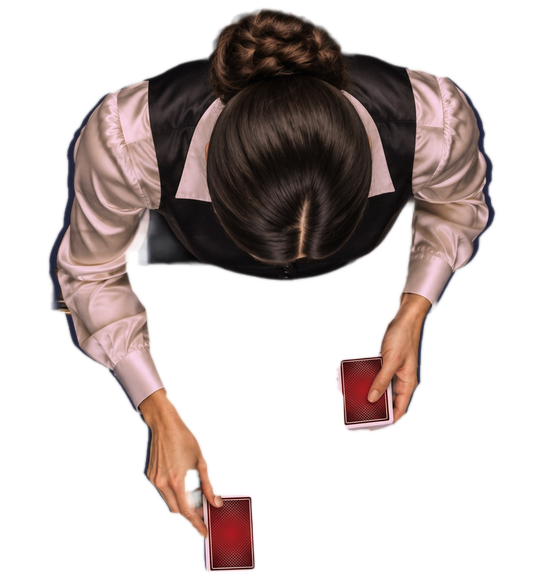
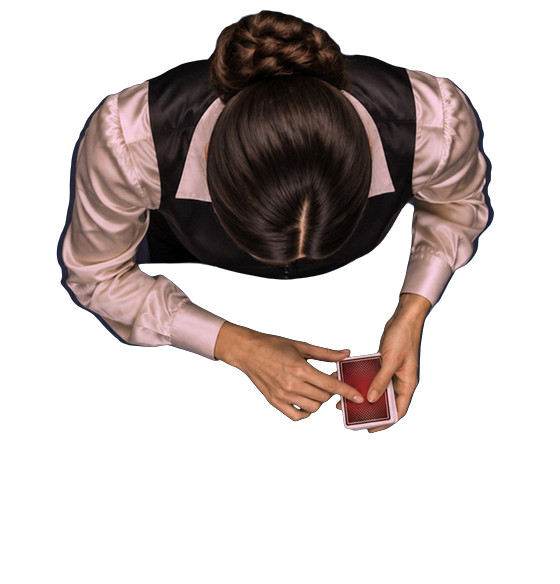
Kurpiye 1: dağıtırken eliyle kart dağıtma hareketi, masada kart yok
Videodan çıkarılan 41 karelik şerit dağıtım sırasında oynar (Erman 25 Kas, önce 1. kurpiyede deneme).

diff --git a/sw.js b/sw.js
@@ -1,10 +1,10 @@
 // Offline önbellek: ilk açılışta tüm dosyalar cihaza kaydedilir.
 // Dosya değişince SURUM artırılır.
-const SURUM = 'novo-online-v35';
+const SURUM = 'novo-online-v36';
 const DOSYALAR = [
   './', 'index.html', 'css/stil.css', 'manifest.webmanifest',
   'js/uygulama.js', 'js/arayuz.js', 'js/masa.js', 'js/oyuncu.js', 'js/motor.js', 'js/kart.js', 'js/ses.js', 'js/fis.js', 'js/novo.js', 'js/novo_masa.js', 'js/krupiye.js', 'js/havai.js', 'js/konus.js', 'js/online.js', 'js/ultimate.js', 'js/ultimate_masa.js',
-  'sesler/fis/tek.mp3', 'sesler/fis/kucuk.mp3', 'sesler/fis/yigin.mp3', 'sesler/fis/itme.mp3', 'sesler/ortam.mp3', 'img/masa/lacivert.jpg', 'img/masa/yesil.jpg', 'img/masa/antrasit.jpg', 'img/kurpiye/1.jpg', 'img/kurpiye/2.jpg', 'img/kurpiye/3.jpg', 'img/kurpiye/1.mp4', 'img/kurpiye/2.mp4', 'img/kurpiye/3.mp4', 'img/kurpiye/1k.mp4', 'img/kurpiye/2k.mp4', 'img/kurpiye/3k.mp4', 'img/kurpiye/1g.jpg', 'img/kurpiye/2g.jpg', 'img/kurpiye/3g.jpg', 'img/kurpiye/1g.mp4', 'img/kurpiye/2g.mp4', 'img/kurpiye/3g.mp4', 'img/kurpiye/4.jpg', 'img/kurpiye/5.jpg', 'img/kurpiye/4.mp4', 'img/kurpiye/5.mp4', 'img/kurpiye/4k.mp4', 'img/kurpiye/5k.mp4', 'img/kurpiye/4g.jpg', 'img/kurpiye/5g.jpg', 'img/kurpiye/4g.mp4', 'img/kurpiye/5g.mp4', 'img/kurpiye/1t.png', 'img/kurpiye/2t.png', 'img/kurpiye/3t.png', 'img/kurpiye/4t.png', 'img/kurpiye/5t.png',
+  'sesler/fis/tek.mp3', 'sesler/fis/kucuk.mp3', 'sesler/fis/yigin.mp3', 'sesler/fis/itme.mp3', 'sesler/ortam.mp3', 'img/masa/lacivert.jpg', 'img/masa/yesil.jpg', 'img/masa/antrasit.jpg', 'img/kurpiye/1.jpg', 'img/kurpiye/2.jpg', 'img/kurpiye/3.jpg', 'img/kurpiye/1.mp4', 'img/kurpiye/2.mp4', 'img/kurpiye/3.mp4', 'img/kurpiye/1k.mp4', 'img/kurpiye/2k.mp4', 'img/kurpiye/3k.mp4', 'img/kurpiye/1g.jpg', 'img/kurpiye/2g.jpg', 'img/kurpiye/3g.jpg', 'img/kurpiye/1g.mp4', 'img/kurpiye/2g.mp4', 'img/kurpiye/3g.mp4', 'img/kurpiye/4.jpg', 'img/kurpiye/5.jpg', 'img/kurpiye/4.mp4', 'img/kurpiye/5.mp4', 'img/kurpiye/4k.mp4', 'img/kurpiye/5k.mp4', 'img/kurpiye/4g.jpg', 'img/kurpiye/5g.jpg', 'img/kurpiye/4g.mp4', 'img/kurpiye/5g.mp4', 'img/kurpiye/1t.png', 'img/kurpiye/2t.png', 'img/kurpiye/3t.png', 'img/kurpiye/4t.png', 'img/kurpiye/5t.png', 'img/kurpiye/1s.png',
   'ikon-180.png', 'ikon-192.png', 'ikon-512.png',
 ];
 self.addEventListener('install', e => {

diff --git a/css/stil.css b/css/stil.css
@@ -799,6 +799,13 @@ button.dk-durum { cursor: pointer; font: inherit; font-size: 11px; }
 .kr-tepe { --kt-gen: 330px; --kt-derin: 128px; position: absolute; left: 50%; top: 0; width: var(--kt-gen); transform: translateX(-50%); pointer-events: none; z-index: 0; }
 .kr-tepe img { position: relative; display: block; width: 100%; margin-top: -62px; filter: drop-shadow(0 12px 14px #000b); transition: opacity .7s, transform .7s; }
 .kr-tepe img:not([src]) { visibility: hidden; }
+/* Dağıtma hareketi: 41 karelik yatay şerit, dağıtırken durgun görselin yerine oynar (Erman 25 Kas). */
+.kt-anim { display: none; position: absolute; left: 0; top: -62px; width: 100%; aspect-ratio: 560 / 584; background: var(--kt-serit) 0 0 / 4100% 100% no-repeat; filter: drop-shadow(0 12px 14px #000b);
+  /* Kart oyunculara doğru çerçeveden çıkarken kesik görünmesin: alt kenar yumuşar. */
+  -webkit-mask-image: linear-gradient(#000 78%, transparent 98%); mask-image: linear-gradient(#000 78%, transparent 98%); }
+.kr-tepe[data-serit][data-ruh="dagit"] .kt-anim { display: block; animation: kt-kare 4s steps(41, jump-none) infinite; }
+.kr-tepe[data-serit][data-ruh="dagit"] img { opacity: 0; transition: none; }
+@keyframes kt-kare { to { background-position: 100% 0; } }
 .kr-girinti { position: absolute; left: 50%; top: calc(var(--kt-derin) * -1); width: calc(var(--kt-gen) * .88); height: calc(var(--kt-derin) * 2); transform: translateX(-50%); border-radius: 50%;
   background: radial-gradient(ellipse at 50% 35%, #1e1813, #07080a 78%); box-shadow: 0 0 0 9px var(--ahsap, #5a3418), 0 0 0 12px #0009, 0 8px 18px #000a, inset 0 -12px 26px #000d; }
 .kr-tepe.kr-cikis img { opacity: 0; transform: translateY(-50px); }

diff --git a/js/krupiye.js b/js/krupiye.js
@@ -36,7 +36,7 @@ export function krupiyeKur(yer) {
     if (!t) {
       t = document.createElement('div');
       t.className = 'kr-tepe';
-      t.innerHTML = '<div class="kr-girinti"></div><img alt="">';
+      t.innerHTML = '<div class="kr-girinti"></div><img alt=""><div class="kt-anim"></div>';
       alan.insertBefore(t, alan.children[1] || null);
     }
     tepe = t;
@@ -52,7 +52,13 @@ function yukle(i) {
   galaAcik = false;
   if (kok) kok.classList.remove('kr-gala');
   img.src = `img/kurpiye/${i + 1}.jpg`;
-  if (tepe) tepe.querySelector('img').src = `img/kurpiye/${i + 1}t.png`;
+  if (tepe) {
+    tepe.querySelector('img').src = `img/kurpiye/${i + 1}t.png`;
+    // Kart dağıtırken eliyle dağıtma hareketi: videodan çıkarılmış kare şeridi (Erman 25 Kas).
+    // Şeridi olmayan kurpiye dağıtırken sabit durur.
+    if (SERITLI.has(i)) { tepe.style.setProperty('--kt-serit', `url("${new URL(`img/kurpiye/${i + 1}s.png`, document.baseURI).href}")`); tepe.dataset.serit = '1'; }
+    else { tepe.style.removeProperty('--kt-serit'); delete tepe.dataset.serit; }
+  }
   // iPad Safari önbellekten (service worker) gelen videoyu parça parça isteyemez; videoyu
   // bir kez belleğe alıp oradan oynatırız, internetsiz de çalışır.
   const istenen = i;
@@ -119,6 +125,8 @@ export function konusuyor(sure) {
 }
 
 // sure (ms) verilirse sonra normale döner
+// Dağıtma hareketi şeridi olan kurpiyeler (0 = 1. kurpiye)
+export const SERITLI = new Set([0]);
 export function ruh(ad, sure = 0) {
   if (!kok) return;
   kok.dataset.ruh = ad;
